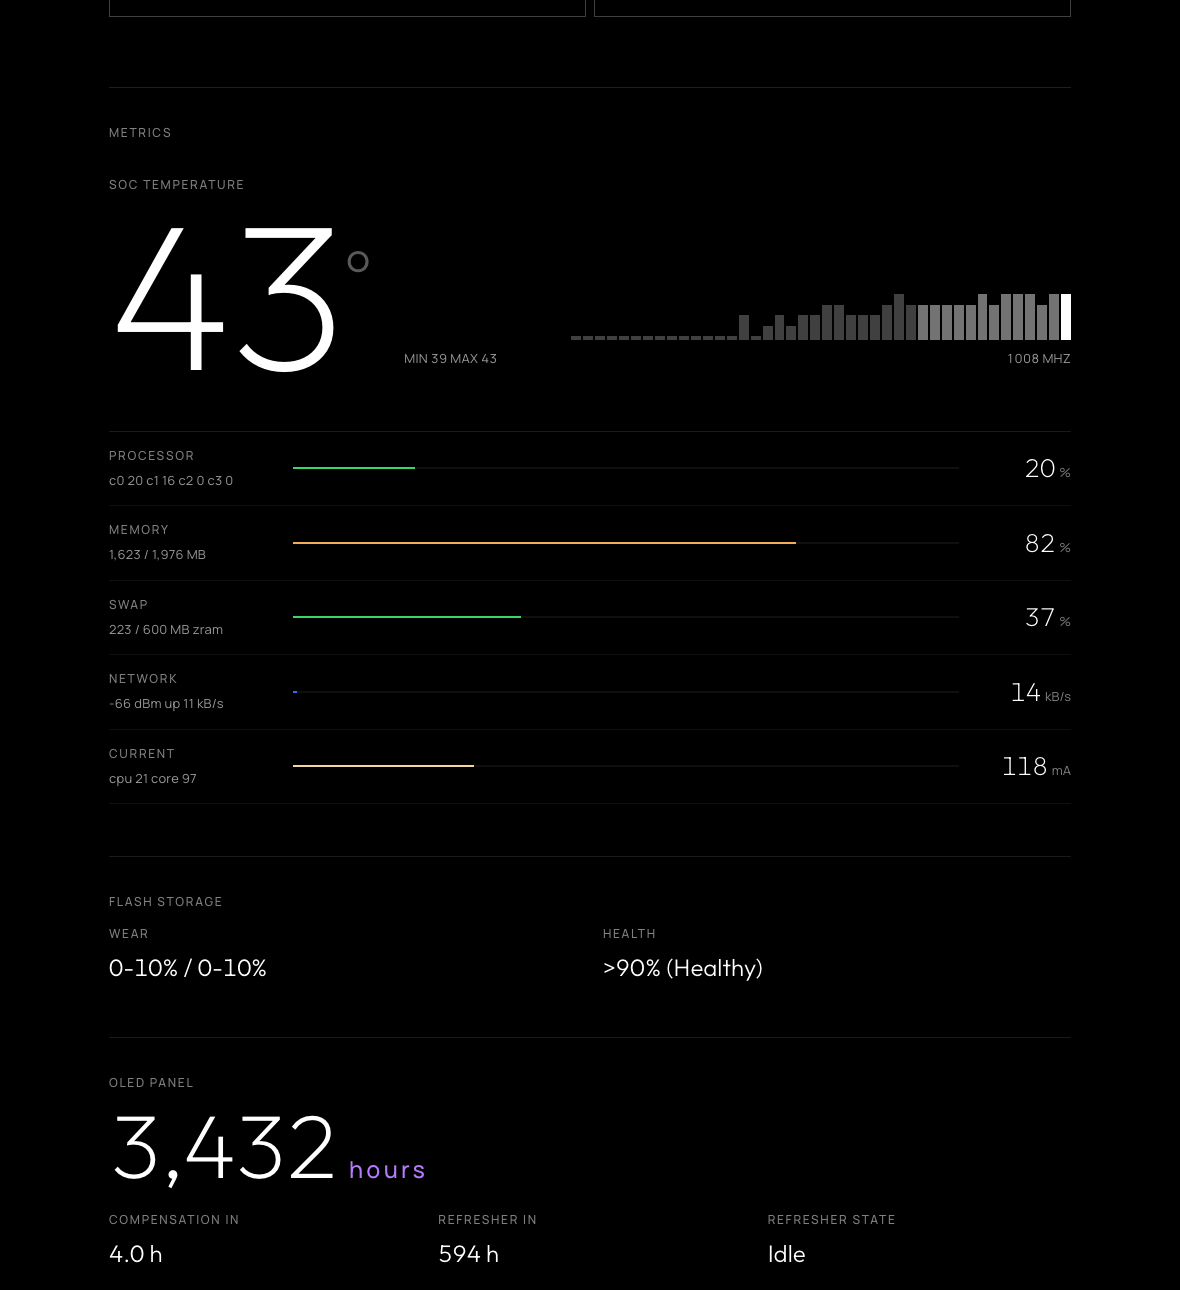
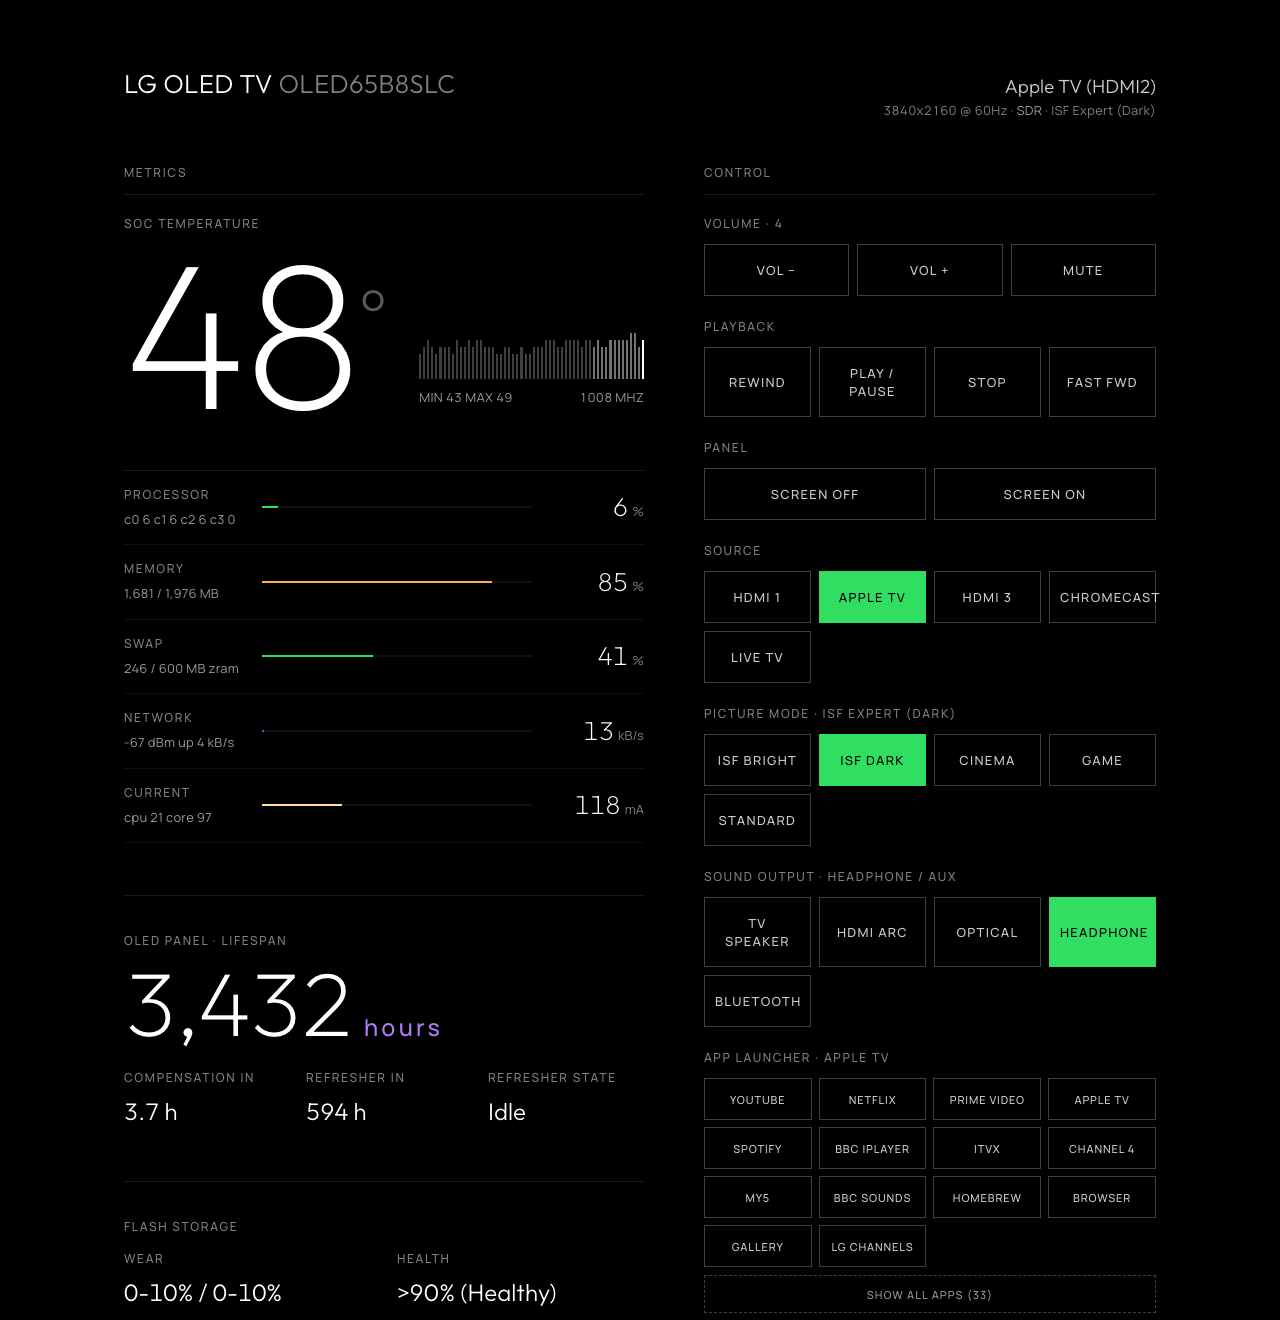
docs: update README with new features, 41 entities, and refreshed screenshots

diff --git a/server/assets/ui.html b/server/assets/ui.html
@@ -181,7 +181,7 @@ footer{margin-top:38px;font-size:12px;letter-spacing:.10em;text-transform:upperc
 
 
 
-<main class="grid-wrap">
+<main class="grid-wrap" id="main-grid">
   <!-- Left Column: Telemetry & Metrics -->
   <div class="col-telemetry">
     <div class="col-sec">Metrics</div>
@@ -764,7 +764,18 @@ async function privAction(action) {
 
 // Deep link straight to the privacy view: /?privacy=1 . Handy for a bookmark,
 // and it means the panel can be captured without a click.
-if (new URLSearchParams(location.search).get('privacy') === '1') togglePrivacy();
+if (new URLSearchParams(location.search).get('privacy') === '1') {
+  if (new URLSearchParams(location.search).get('only') === '1' && q('main-grid')) {
+    q('main-grid').hidden = true;
+  }
+  togglePrivacy();
+}
+
+if (new URLSearchParams(location.search).get('controls') === '1') {
+  const tel = document.querySelector('.col-telemetry');
+  if (tel) tel.hidden = true;
+  if (q('main-grid')) q('main-grid').style.gridTemplateColumns = '1fr';
+}
 
 tick();
 setInterval(tick, 2000);

diff --git a/README.md b/README.md
@@ -2,43 +2,37 @@
 
 A telemetry server that runs **on** a rooted LG webOS TV. It serves a live
 dashboard to any browser on your network, and bridges the TV into Home
-Assistant over MQTT as a single auto-discovered device with 33 entities.
+Assistant over MQTT as a single auto-discovered device with 41 entities.
 
 There are no dependencies. This is pure ES5 on the Node 0.12 runtime that is on the TV.
 
 ---
 
-### Local Controls
+### Web Dashboard & Controls
 
-Volume, OLED panel blanking, source switching and power.
-
-<p align="center">
-  <img src="docs/screenshots/controls.png" alt="Local control panel: volume, screen blanking, source switching and power" width="760">
-</p>
-
-### Metrics
+Live telemetry and full local control in a unified two-column layout: volume, media playback, picture modes, audio output, app launcher, panel blanking, input switching, and power.
 
 <p align="center">
-  <img src="docs/screenshots/dashboard.png" alt="Metrics: SoC temperature, resource readouts and OLED panel hours" width="900">
+  <img src="docs/screenshots/dashboard.png" alt="LG webOS TV live dashboard: metrics and interactive controls" width="900">
 </p>
 
 ### Home Assistant (Auto-Discovered Device via MQTT)
 
-All 33 entities arrive over MQTT Discovery as a single device
+All 41 entities arrive over MQTT Discovery as a single device
 <p align="center">
 <img width="1061" height="1042" alt="image" src="https://github.com/user-attachments/assets/1d76b1a2-68d9-42a4-a497-b107d706b235" />
 </p>
 
-### Privacy Panel
+### Privacy Panel & On-TV Ad Blocker
 
 Behind a toggle in the controls, or at `/?privacy=1`. Reports live state from
 the TV rather than repeating a settings menu: whether LG's content recognition
 engine is running and sampling frames, your advertising identifier, and every
-agreement recorded on the set. Off is shown as the private setting, so a green
-column means what you would hope.
+agreement recorded on the set. Includes an on-TV ad & telemetry sinkhole via
+bind-mounting over `/etc/hosts` that persists across reboots.
 
 <p align="center">
-  <img src="docs/screenshots/privacy.png" alt="Privacy panel showing content recognition status, advertising identifier and data collection agreements" width="800">
+  <img src="docs/screenshots/privacy.png" alt="Privacy panel showing content recognition status, advertising identifier, data collection agreements, and ad blocker" width="800">
 </p>
 
 ---
@@ -46,8 +40,7 @@ column means what you would hope.
 ## What it's for
 
 
-1. **Controlling the TV without the cloud.** Volume, mute, input switching,
-   on-screen toast messages, power and reboot.
+1. **Controlling the TV without the cloud.** Volume, mute, media playback keys (play, pause, stop, skip), app launcher, picture presets, sound output routing, power and reboot.
 
 2. **Seeing what the TV is actually doing.** SoC temperature, per-core CPU
    load, memory, swap, current draw, Wi-Fi signal and throughput.
@@ -56,9 +49,9 @@ column means what you would hope.
    4-hour compensation cycle, and how far off the 2,000-hour Pixel Refresher is.
    You can schedule or cancel a refresher for the next power-off.
 
-4. **Seeing what LG collects.** Whether the content-recognition engine is
-   actually running and sampling your screen, your advertising identifier, and
-   every data-collection agreement recorded on the set.
+4. **Seeing what LG collects & blocking telemetry.** Whether the content-recognition
+   engine is actually running and sampling your screen, your advertising identifier,
+   data agreements, and an on-TV `/etc/hosts` blackhole for LG ad and telemetry domains.
 
 ## Core features
 
@@ -71,18 +64,14 @@ column means what you would hope.
 * **Hardware diagnostics.** SoC temperature and current draw, CPU and per-core
   load, memory and zram swap, Wi-Fi RSSI, network throughput, and eMMC flash
   wear with JEDEC health translation.
-* **Bi-directional control.** Volume, mute, input select, screen blanking,
-  on-screen notifications, power and restart (From the dashboard or Home
-  Assistant)
+* **Bi-directional control.** Volume, mute, input select, media playback (play/pause/stop/skip via native remote key injection), app launching, picture presets, sound outputs, screen blanking, on-screen notifications, power and restart (from the dashboard or Home Assistant).
+* **On-TV ad & telemetry sinkhole.** Sinkholes 15 known LG tracking, ad, and ACR endpoints directly on the set by bind-mounting a local blackhole table over `/etc/hosts`. Automatically restored on boot.
 * **Privacy panel.** Behind a toggle in the controls: whether LG's screen
   content recognition is actually running and sampling frames, your advertising
   identifier and whether ad tracking is limited, every data-collection
   agreement recorded on the TV, and which of LG's collection
-  services are alive. Includes buttons to reset the advertising ID and clear ad
-  cookies.
-  This feature just reports because the agreements themselves have no API and are changed
-  on the TV, under Settings &rarr; General &rarr; About This TV &rarr; User
-  Agreements. Deep link: `/?privacy=1`.
+  services are alive. Includes buttons to reset the advertising ID, clear ad
+  cookies, and toggle the on-TV ad blocker. Deep link: `/?privacy=1`.
 * **Self-contained dashboard.** Fonts and assets are served by the TV, so the
   page works with no internet access.
 
@@ -209,7 +198,7 @@ Full detail, including the MQTT ACL guidance and optional TLS, is in
 ## Documentation
 
 * [docs/SECURITY.md](docs/SECURITY.md) &mdash; threat model, SSH migration, MQTT hardening
-* [docs/HOME-ASSISTANT.md](docs/HOME-ASSISTANT.md) &mdash; all 33 entities, example automations
+* [docs/HOME-ASSISTANT.md](docs/HOME-ASSISTANT.md) &mdash; all 41 entities, universal media player, example automations
 * [docs/IMPLEMENTATION.md](docs/IMPLEMENTATION.md) &mdash; architecture, `/proc/lg` reference, platform quirks
 
 ---
